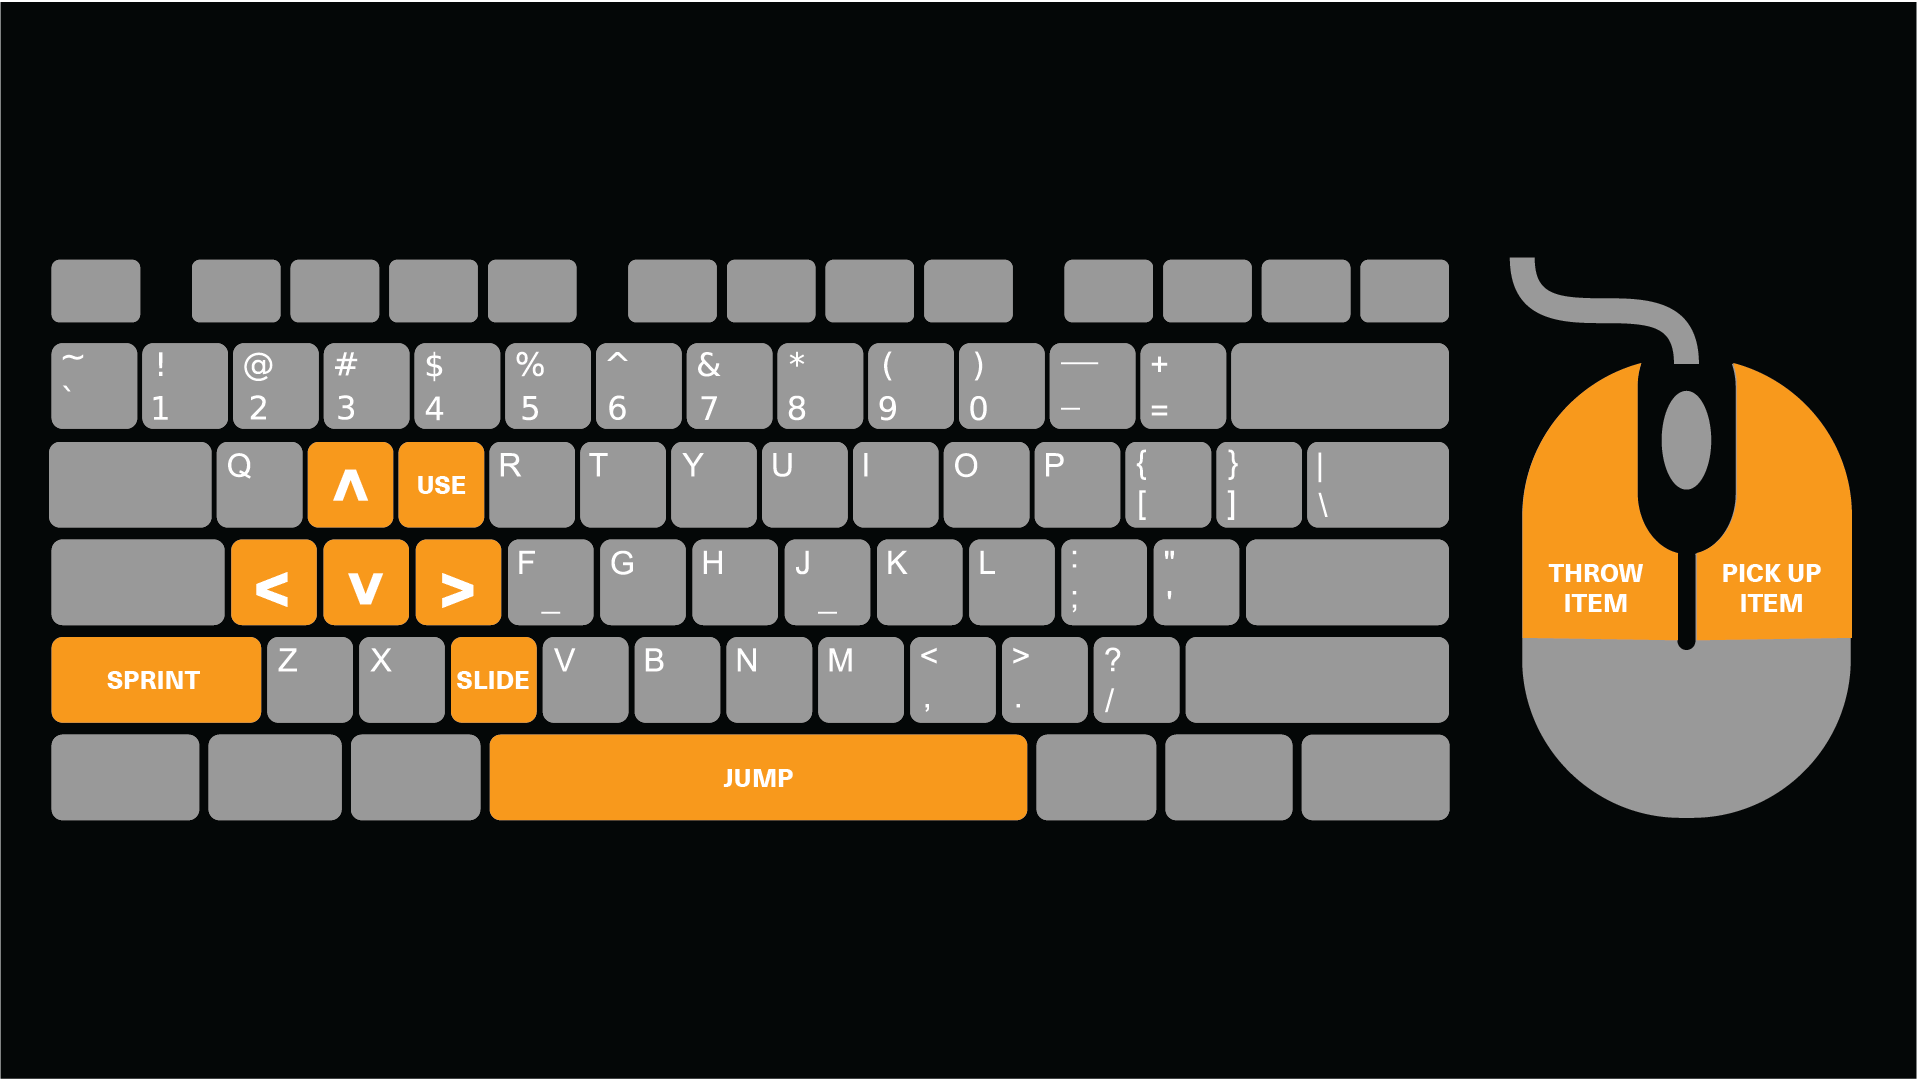
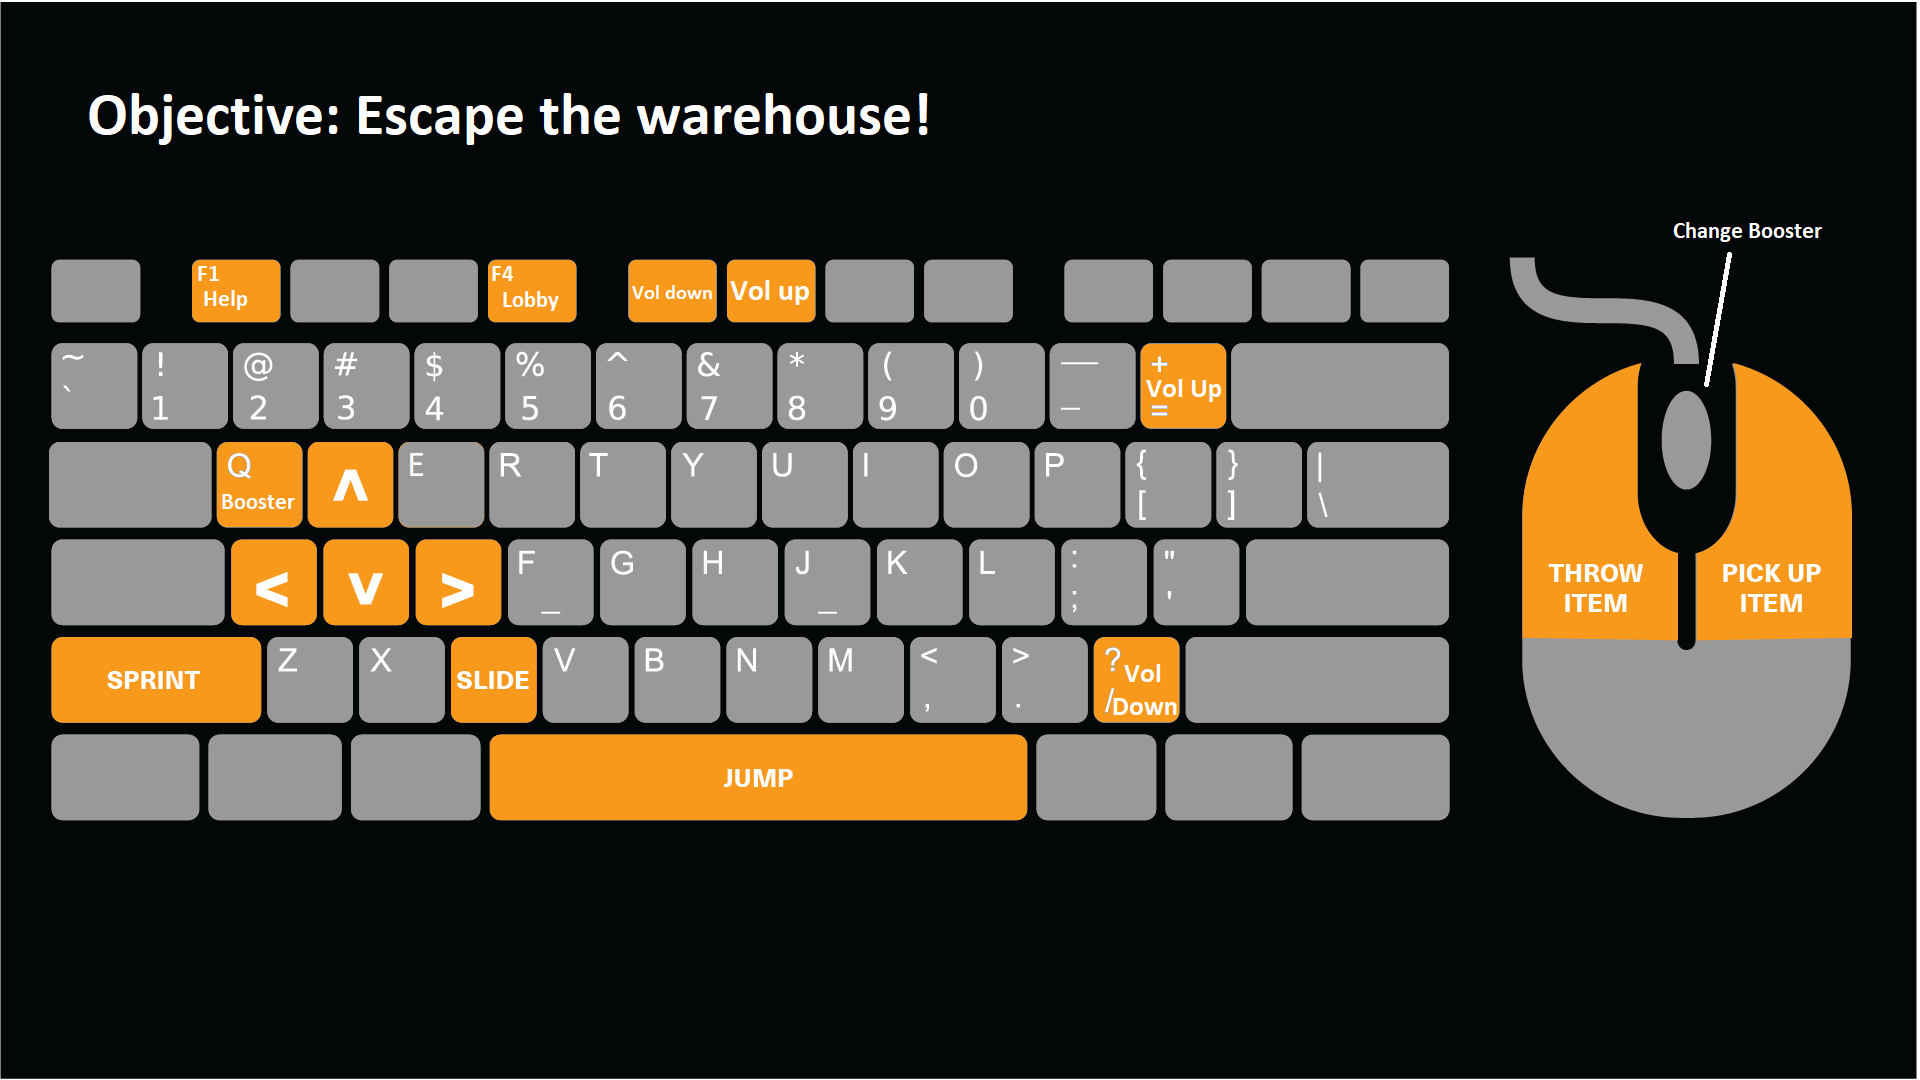
more controls tips + f5+f6 for volume

diff --git a/Ragdoll Example/Assets/GameController.cs b/Ragdoll Example/Assets/GameController.cs
@@ -112,7 +112,7 @@ public class GameController : MonoBehaviour
             
         }
 
-        if (Input.GetKey(KeyCode.KeypadPlus) || Input.GetKey(KeyCode.Plus) || Input.GetKey(KeyCode.Equals))
+        if (Input.GetKey(KeyCode.KeypadPlus) || Input.GetKey(KeyCode.Plus) || Input.GetKey(KeyCode.Equals) || Input.GetKey(KeyCode.F6))
         {
             _amplifyStep = AudioUtility.masterAudioAmplify < 1 ? 0.1f : 0.1f;
             AudioUtility.masterAudioAmplify += _amplifyStep;
@@ -122,7 +122,7 @@ public class GameController : MonoBehaviour
             _audioSource.volume = 0.02f * AudioUtility.masterAudioAmplify;
         }
 
-        if (Input.GetKey(KeyCode.KeypadMinus) || Input.GetKey(KeyCode.Minus))
+        if (Input.GetKey(KeyCode.KeypadMinus) || Input.GetKey(KeyCode.Minus) || Input.GetKey(KeyCode.F5))
         {
             _amplifyStep = AudioUtility.masterAudioAmplify < 1 ? 0.1f : 0.1f; 
             AudioUtility.masterAudioAmplify -= _amplifyStep;
